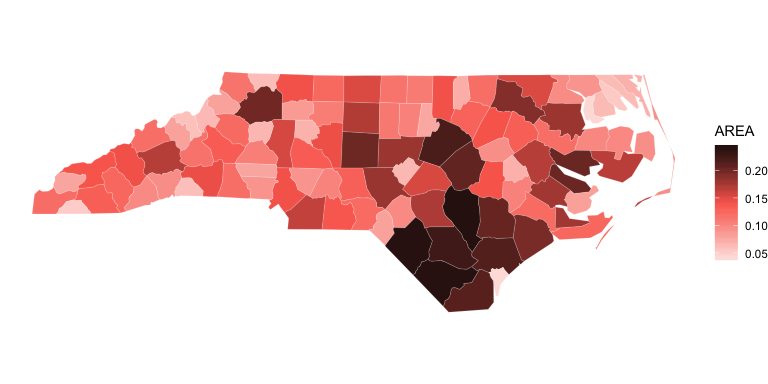
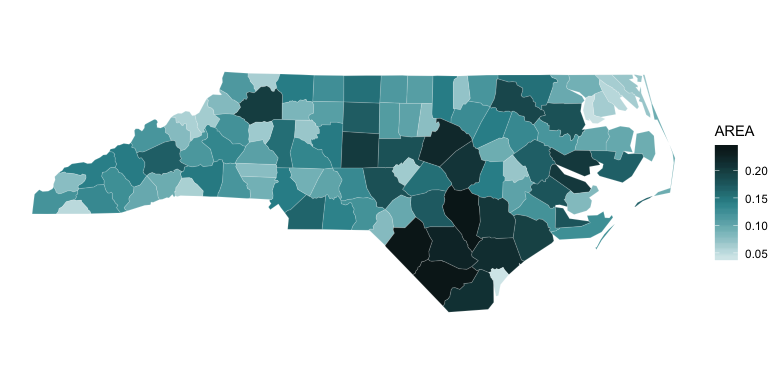
change hex colour, fix tests, build

Changed region(s): [[0.0312, 0.1875, 0.875, 0.8125], [0.9062, 0.375, 0.9688, 0.6875], [0.8438, 0.4688, 0.875, 0.5312]]

diff --git a/docs/index.html b/docs/index.html
@@ -111,12 +111,12 @@
 <a class="sourceLine" id="cb7-3" title="3"></a>
 <a class="sourceLine" id="cb7-4" title="4">nc &lt;-<span class="st"> </span><span class="kw"><a href="http://www.rdocumentation.org/packages/sf/topics/st_read">st_read</a></span>(<span class="kw">system.file</span>(<span class="dt">package =</span> <span class="st">"sf"</span>, <span class="st">"shape/nc.shp"</span>))</a>
 <a class="sourceLine" id="cb7-5" title="5"></a>
-<a class="sourceLine" id="cb7-6" title="6"><span class="kw"><a href="https://ggplot2.tidyverse.org/reference/ggplot.html">ggplot</a></span>(<span class="dt">data =</span> nc) <span class="op">+</span></a>
-<a class="sourceLine" id="cb7-7" title="7"><span class="st">  </span><span class="kw"><a href="https://ggplot2.tidyverse.org/reference/ggsf.html">geom_sf</a></span>(<span class="kw"><a href="https://ggplot2.tidyverse.org/reference/aes.html">aes</a></span>(<span class="dt">fill =</span> AREA), <span class="dt">colour =</span> <span class="st">"white"</span>, <span class="dt">lwd =</span> <span class="fl">0.05</span>) <span class="op">+</span></a>
+<a class="sourceLine" id="cb7-6" title="6"><span class="kw"><a href="http://www.rdocumentation.org/packages/ggplot2/topics/ggplot">ggplot</a></span>(<span class="dt">data =</span> nc) <span class="op">+</span></a>
+<a class="sourceLine" id="cb7-7" title="7"><span class="st">  </span><span class="kw"><a href="http://www.rdocumentation.org/packages/ggplot2/topics/ggsf">geom_sf</a></span>(<span class="kw"><a href="http://www.rdocumentation.org/packages/ggplot2/topics/aes">aes</a></span>(<span class="dt">fill =</span> AREA), <span class="dt">colour =</span> <span class="st">"white"</span>, <span class="dt">lwd =</span> <span class="fl">0.05</span>) <span class="op">+</span></a>
 <a class="sourceLine" id="cb7-8" title="8"><span class="st">  </span><span class="co"># colours from tinter</span></a>
-<a class="sourceLine" id="cb7-9" title="9"><span class="st">  </span><span class="kw"><a href="https://ggplot2.tidyverse.org/reference/scale_gradient.html">scale_fill_gradientn</a></span>(<span class="dt">colours =</span> <span class="kw"><a href="reference/tinter.html">tinter</a></span>(hex)) <span class="op">+</span></a>
-<a class="sourceLine" id="cb7-10" title="10"><span class="st">  </span><span class="kw"><a href="https://ggplot2.tidyverse.org/reference/ggtheme.html">theme_void</a></span>() <span class="op">+</span></a>
-<a class="sourceLine" id="cb7-11" title="11"><span class="st">  </span><span class="kw"><a href="https://ggplot2.tidyverse.org/reference/ggsf.html">coord_sf</a></span>(<span class="dt">datum =</span> <span class="ot">NA</span>)</a></code></pre></div>
+<a class="sourceLine" id="cb7-9" title="9"><span class="st">  </span><span class="kw"><a href="http://www.rdocumentation.org/packages/ggplot2/topics/scale_gradient">scale_fill_gradientn</a></span>(<span class="dt">colours =</span> <span class="kw"><a href="reference/tinter.html">tinter</a></span>(hex)) <span class="op">+</span></a>
+<a class="sourceLine" id="cb7-10" title="10"><span class="st">  </span><span class="kw"><a href="http://www.rdocumentation.org/packages/ggplot2/topics/ggtheme">theme_void</a></span>() <span class="op">+</span></a>
+<a class="sourceLine" id="cb7-11" title="11"><span class="st">  </span><span class="kw"><a href="http://www.rdocumentation.org/packages/ggplot2/topics/ggsf">coord_sf</a></span>(<span class="dt">datum =</span> <span class="ot">NA</span>)</a></code></pre></div>
 <p><img src="../../../../Dropbox%20(Poisson%20Consulting)/Code/tinter/tinter/man/figures/README-plot-1.png" width="768"></p>
 </div>
 <div id="doesnt-this-already-exist" class="section level3">

diff --git a/docs/reference/tinter.html b/docs/reference/tinter.html
@@ -136,7 +136,7 @@
     </tr>
     <tr>
       <th>adjust</th>
-      <td><p>A number between -1 and 1. A value below 0 will darken output; a value above 0 will lighten output.</p></td>
+      <td><p>A number between -1 and 1. Values between 0 and -1 increasingly darken colour; values between 0 and 1 increasingly lighten colour.</p></td>
     </tr>
     </table>
     

diff --git a/README.md b/README.md
@@ -28,15 +28,15 @@ Easily define:
 
 ``` r
 library(tinter)
-hex <- "#fa6a5c"
+hex <- "#309099"
 ```
 
 ![](man/figures/README-colour-1.png)<!-- -->
 
 ``` r
 tinter(hex)
-#> [1] "#FEE1DE" "#FDC3BD" "#FBA59D" "#FB877C" "#FA6A5C" "#C85449" "#953F37"
-#> [8] "#632A24" "#311512"
+#> [1] "#D5E8EA" "#ACD2D6" "#82BCC1" "#59A6AD" "#309099" "#26737A" "#1C565B"
+#> [8] "#13393D" "#091C1E"
 ```
 
 ![](man/figures/README-tinter-1.png)<!-- -->
